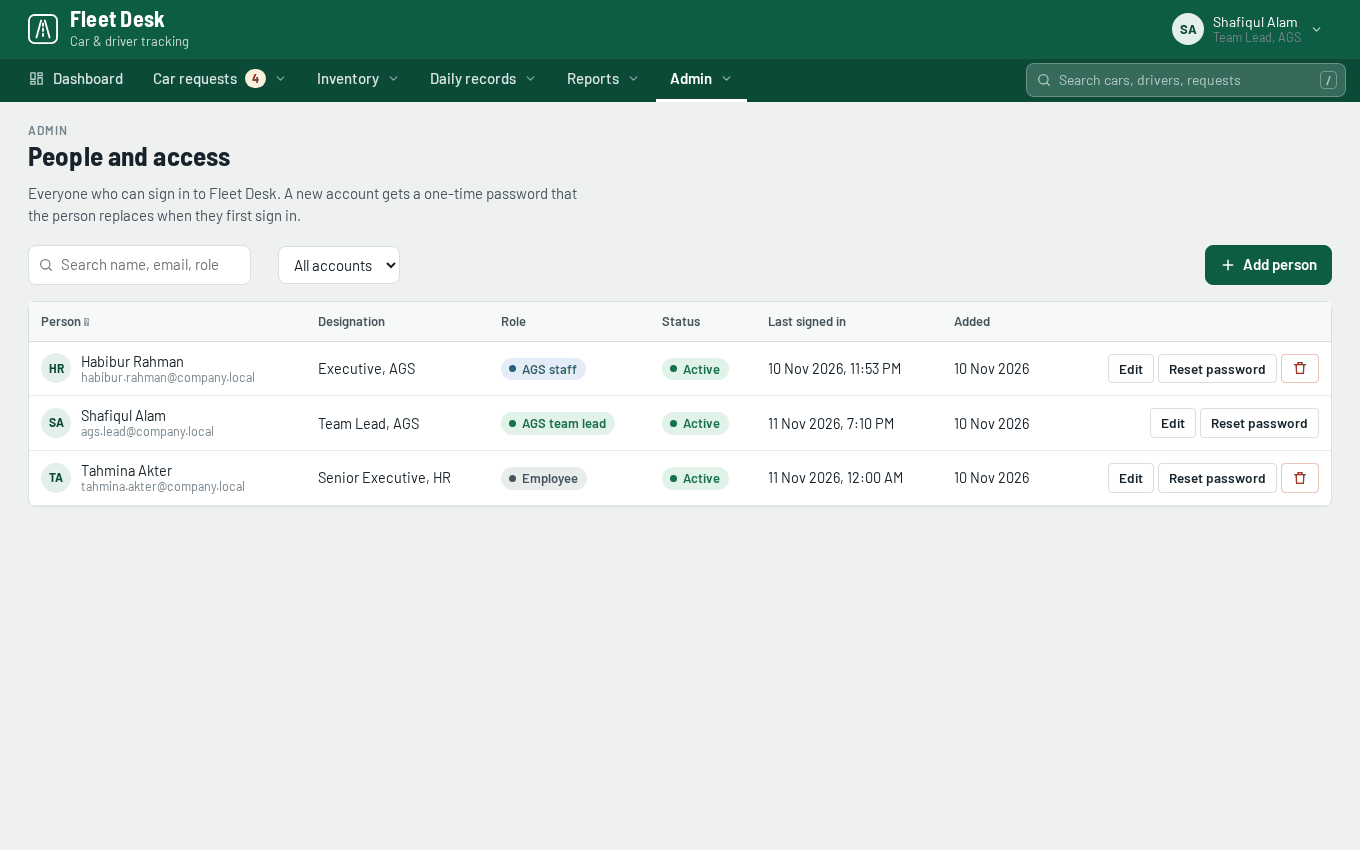
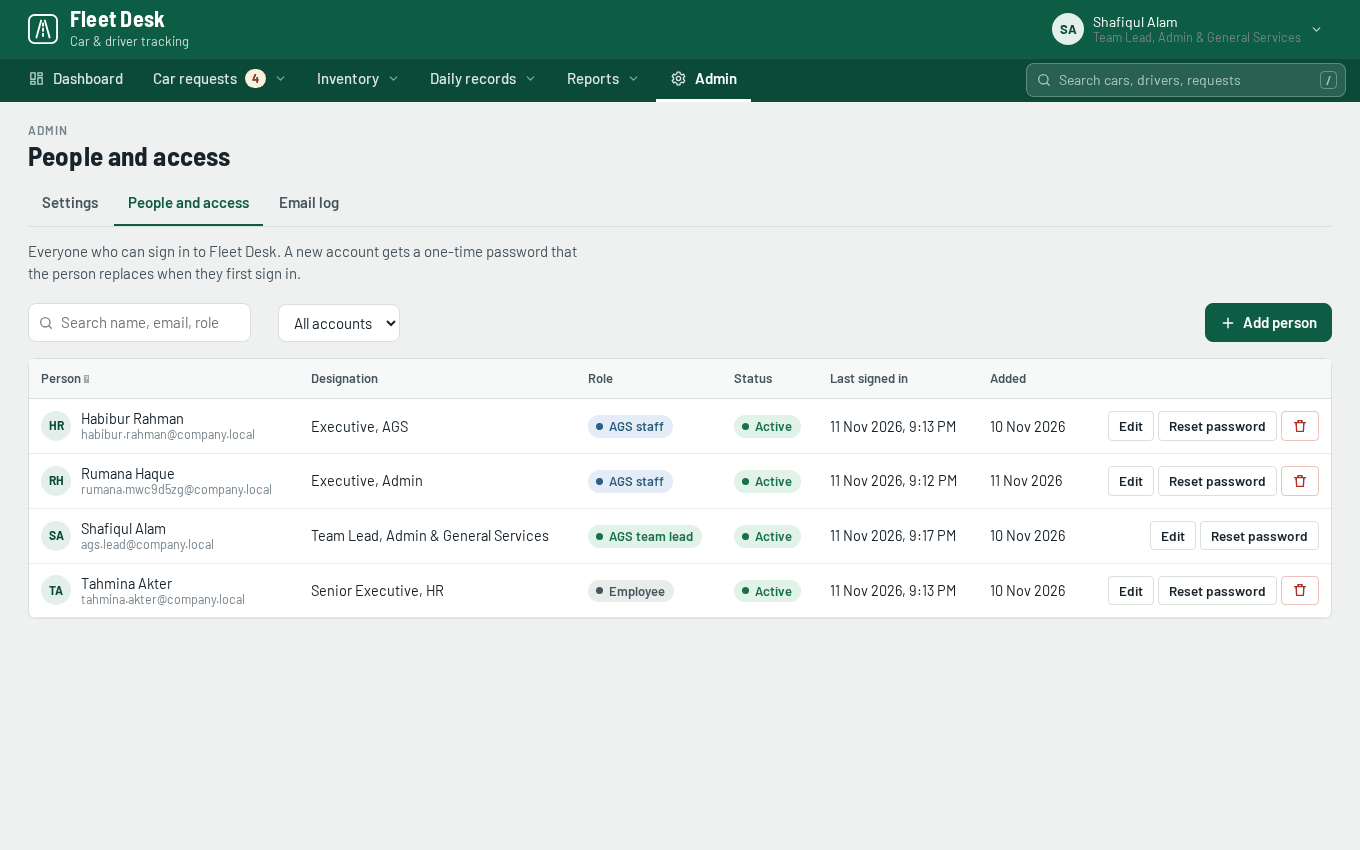
Admin: one page with tabs
Settings, People and access and the Email log were three entries in the Admin
menu; they are now three tabs on one Admin page.

Each tab keeps its own address — #admin/settings, #admin/users,
#admin/outbox — so links, the browser's back button and the search box all
land on the right tab, and the search box offers the tabs by name as well as
the page. The old #settings, #users and #outbox addresses redirect, so
nothing that was bookmarked or linked breaks.

Tabs follow the role: AGS staff see only the Email log, and with a single tab
the bar is left off entirely rather than showing one lonely tab.

diff --git a/assets/js/app.js b/assets/js/app.js
@@ -2,6 +2,7 @@
 import { api, CONFIG, loadAll } from './api.js';
 import { esc, initials, byId, fmtDate, fmtTime, num, num1, bdt, unitOf } from './utils.js';
 import { toast, confirmDialog, closeAllModals, pill } from './ui.js';
+import { tabsFor as adminTabs } from './views/admin.js';
 
 const P = (d) => `<svg viewBox="0 0 24 24" fill="none" stroke="currentColor" stroke-width="1.9" stroke-linecap="round" stroke-linejoin="round">${d}</svg>`;
 const I = {
@@ -41,9 +42,7 @@ export const ROUTES = [
   { path: 'consumption', title: 'Fuel consumption', group: 'Reports', roles: STAFF, load: () => import('./views/consumption.js') },
   { path: 'overtime', title: 'Driver overtime', group: 'Reports', roles: STAFF, load: () => import('./views/overtime.js') },
   { path: 'assignments', title: 'Assignment history', group: 'Reports', roles: STAFF, load: () => import('./views/assignments.js') },
-  { path: 'outbox', title: 'Email log', group: 'Admin', roles: STAFF, load: () => import('./views/outbox.js') },
-  { path: 'users', title: 'People and access', group: 'Admin', roles: ['lead'], load: () => import('./views/users.js'), icon: 'users', backend: true },
-  { path: 'settings', title: 'Settings', group: 'Admin', roles: ['lead'], load: () => import('./views/settings.js') },
+  { path: 'admin', title: 'Admin', group: 'Admin', roles: STAFF, load: () => import('./views/admin.js'), icon: 'settings', tabbed: true },
   // Reached from the user menu rather than the menu bar.
   { path: 'account', title: 'My account', group: 'Account', roles: ALL, load: () => import('./views/account.js'), icon: 'account', hidden: true, backend: true },
 ];
@@ -93,10 +92,11 @@ async function renderNav() {
 
   const badge = (n) => (n ? `<span class="nav-badge" aria-label="${n} waiting for review">${n}</span>` : '');
   const pageBadge = (r) => badge(r.badge ? pendingCount : 0);
-  const link = (r, cls) => `<a class="${cls}" href="#${r.path}"${r.path === current ? ' aria-current="page"' : ''}>${I[r.icon || r.path]}<span>${esc(r.title)}</span>${pageBadge(r)}</a>`;
+  const isCurrent = (r) => r.path === current || (r.tabbed && currentTop() === r.path);
+  const link = (r, cls) => `<a class="${cls}" href="#${r.path}"${isCurrent(r) ? ' aria-current="page"' : ''}>${I[r.icon || r.path]}<span>${esc(r.title)}</span>${pageBadge(r)}</a>`;
 
   document.getElementById('menuInner').innerHTML = Object.entries(groups).map(([group, items], i) => {
-    const here = items.some((r) => r.path === current) ? ' active' : '';
+    const here = items.some(isCurrent) ? ' active' : '';
     // A category with a single page needs no dropdown.
     if (items.length === 1) return `<div class="menu-item${here}">${link(items[0], 'menu-top is-link')}</div>`;
     const waiting = items.some((r) => r.badge) ? pendingCount : 0;
@@ -127,7 +127,7 @@ function renderUserMenu() {
       ${pill(ROLE_NAME[state.role] || state.role)}
     </div>
     ${signedIn ? `<a href="#account">${I.account}<span>My account</span></a>` : ''}
-    ${state.role === 'lead' && signedIn ? `<a href="#users">${I.users}<span>People and access</span></a>` : ''}
+    ${state.role === 'lead' && signedIn ? `<a href="#admin/users">${I.users}<span>People and access</span></a>` : ''}
     ${state.authMode === 'password' ? `<button type="button" id="signOut" class="danger">${I.signout}<span>Sign out</span></button>` : ''}
     ${state.authMode === 'proxy' ? '<p class="user-panel-note">Signed in with your company account.</p>' : ''}
     ${state.authMode === 'demo' ? '<p class="user-panel-note">Demo mode: pick a role with “Viewing as”. Sign-in needs the backend.</p>' : ''}`;
@@ -250,11 +250,19 @@ const PER_TYPE = 4, MAX_RESULTS = 14, SEARCH_TTL = 30_000;
 
 let searchCache = { role: null, at: 0, items: null };
 
-// The path is searchable too, so "mileage" finds "Running km".
-const pageItems = () => routesFor(state.role).map((r) => ({
-  type: 'Page', icon: r.icon || r.path, page: r.path, params: {},
-  title: r.title, sub: r.group, terms: [r.title, r.group, r.path],
-}));
+// The path is searchable too, so "mileage" finds "Running km". A tabbed page offers
+// its tabs as well, so "email log" still goes straight there.
+const pageItems = () => routesFor(state.role).flatMap((r) => {
+  const page = {
+    type: 'Page', icon: r.icon || r.path, page: r.path, params: {},
+    title: r.title, sub: r.group, terms: [r.title, r.group, r.path],
+  };
+  if (!r.tabbed) return [page];
+  return [page, ...adminTabs(state.role).map((t) => ({
+    type: 'Page', icon: t.path === 'users' ? 'users' : t.path, page: `${r.path}/${t.path}`, params: {},
+    title: t.title, sub: `${r.group} · ${r.title}`, terms: [t.title, t.path, r.group],
+  }))];
+});
 
 async function recordItems() {
   const usable = searchCache.items && searchCache.role === state.role && Date.now() - searchCache.at < SEARCH_TTL;
@@ -570,19 +578,28 @@ export function passwordChanged() {
 }
 
 const currentPath = () => (location.hash.replace(/^#\/?/, '').split('?')[0] || '');
+const currentTop = () => currentPath().split('/')[0];
+const currentSub = () => currentPath().split('/').slice(1).join('/');
+// Where the admin pages used to live, so old links and bookmarks still work.
+const LEGACY = { settings: 'admin/settings', users: 'admin/users', outbox: 'admin/outbox' };
 const routeQuery = () => new URLSearchParams(location.hash.split('?')[1] || '');
 
 let renderSeq = 0;
 async function route() {
   const seq = ++renderSeq;
   let path = currentPath();
+  if (LEGACY[path]) {
+    history.replaceState(null, '', `#${LEGACY[path]}`);
+    path = LEGACY[path];
+  }
   const allowed = routesFor(state.role);
   // A temporary password has to be replaced before anything else is reachable.
   if (state.mustChangePassword && path !== 'account') {
     history.replaceState(null, '', '#account');
     path = 'account';
   }
-  let r = allowed.find((x) => x.path === path);
+  const top = path.split('/')[0];
+  let r = allowed.find((x) => x.path === path) || allowed.find((x) => x.tabbed && x.path === top);
   if (!r) { r = allowed[0]; if (path !== r.path) { history.replaceState(null, '', '#' + r.path); path = r.path; } }
   document.getElementById('pageTitle').textContent = r.title;
   document.getElementById('pageCrumb').textContent = r.group;
@@ -604,7 +621,7 @@ async function route() {
     // just left writes into nothing instead of tripping over missing elements.
     const pane = document.createElement('div');
     view.replaceChildren(pane);
-    await mod.render(pane, ctx);
+    await mod.render(pane, ctx, path.split('/').slice(1).join('/'));
     applySearchTerm(pane);
     view.focus({ preventScroll: true });
     window.scrollTo(0, 0);

diff --git a/assets/js/views/admin.js b/assets/js/views/admin.js
@@ -1,0 +1,39 @@
+// Admin: settings, accounts and the email log, as tabs on one page.
+//
+// Each tab has its own address (#admin/users), so a link, the back button and the
+// search box all land where they should. Switching tabs is a normal navigation, so
+// a tab always draws from fresh data rather than whatever it held last time.
+import { CONFIG } from '../api.js';
+import { esc } from '../utils.js';
+
+export const TABS = [
+  { path: 'settings', title: 'Settings', roles: ['lead'], load: () => import('./settings.js') },
+  { path: 'users', title: 'People and access', roles: ['lead'], backend: true, load: () => import('./users.js') },
+  { path: 'outbox', title: 'Email log', roles: ['ags', 'lead'], load: () => import('./outbox.js') },
+];
+
+export const tabsFor = (role) => TABS.filter((t) => t.roles.includes(role) && !(t.backend && CONFIG.USE_MOCK));
+
+export async function render(el, ctx, subPath = '') {
+  const available = tabsFor(ctx.role);
+  if (!available.length) {
+    el.innerHTML = '<div class="callout warn">There is nothing here for your role.</div>';
+    return;
+  }
+  const tab = available.find((t) => t.path === subPath) || available[0];
+
+  // The page is "Admin"; the heading says which part of it you are looking at.
+  document.getElementById('pageTitle').textContent = tab.title;
+
+  el.innerHTML = `
+    ${available.length > 1 ? `<nav class="tabs" aria-label="Admin sections">
+      ${available.map((t) => `<a class="tab" href="#admin/${t.path}"${t.path === tab.path ? ' aria-current="page"' : ''}>${esc(t.title)}</a>`).join('')}
+    </nav>` : ''}
+    <div id="tabBody"></div>`;
+
+  const body = el.querySelector('#tabBody');
+  body.innerHTML = '<p class="muted">Loading…</p>';
+  const mod = await tab.load();
+  body.innerHTML = '';
+  await mod.render(body, ctx);
+}

diff --git a/assets/css/app.css b/assets/css/app.css
@@ -407,6 +407,15 @@ dl.facts dd { margin: 0; font-weight: 500; }
 .toast.bad { background: var(--danger); }
 @keyframes toast-in { from { transform: translateY(8px); opacity: 0; } }
 
+/* Page tabs: sections of one page, each with its own address. */
+.tabs { display: flex; gap: 2px; margin: -4px 0 18px; border-bottom: 1px solid var(--line); overflow-x: auto; }
+.tab {
+  padding: 9px 14px 10px; border-bottom: 3px solid transparent; margin-bottom: -1px;
+  color: var(--ink-2); text-decoration: none; font-weight: 600; white-space: nowrap;
+}
+.tab:hover { color: var(--ink); background: var(--line-soft); border-radius: var(--r-sm) var(--r-sm) 0 0; }
+.tab[aria-current="page"] { color: var(--sign); border-bottom-color: var(--sign); }
+
 /* Dashboard: which cars are out, free or off the road. */
 .fleet-now { gap: 16px 26px; }
 .fleet-head { display: flex; align-items: baseline; gap: 9px; padding-bottom: 8px; margin-bottom: 4px; border-bottom: 1px solid var(--line-soft); }

diff --git a/assets/js/views/overtime.js b/assets/js/views/overtime.js
@@ -23,7 +23,7 @@ export async function render(el, ctx) {
     <div class="callout" style="margin-bottom:16px">
       Shift ${fmtTime(s.shiftStart)} to ${fmtTime(s.shiftEnd)} on working days. Time before or after the shift counts once it passes ${s.graceMinutes} minutes, rounded down to ${s.roundingMinutes}-minute steps.
       All duty on ${s.weekendDays.map((x) => DAY_NAMES[x]).join(' and ')}${s.holidays?.length ? ' and listed holidays' : ''} is overtime at ${s.weekendMultiplier}× the driver's rate.
-      ${ctx.can('approve') ? '<a href="#settings">Change rules</a>' : ''}
+      ${ctx.can('approve') ? '<a href="#admin/settings">Change rules</a>' : ''}
     </div>
     <div class="kpis" id="kpis"></div>
     <section class="panel" id="tbl"></section>`;

diff --git a/README.md b/README.md
@@ -28,8 +28,12 @@ on an isolated network.
 | Fuel consumption | AGS | Fuel and cost per car per month, km/L, cost per km, and a flag when efficiency drops |
 | Driver overtime | AGS | Overtime per driver per month with a day-by-day breakdown |
 | Assignment history | AGS | Which driver took which car over any period — days driven and km from the logbook, trips booked through approved requests, and whether each pairing is the car's regular driver or cover |
-| Email log | AGS | Every email sent (to the team lead, confirmations, rejections) |
-| Settings | Team lead | Approval contacts, shift and overtime rules, weekend days, holidays, fuel prices |
+| Admin → Email log | AGS | Every email sent (to the team lead, confirmations, rejections, cancellations), why any of them failed, and a way to send it again |
+| Admin → Settings | Team lead | Approval contacts, shift and overtime rules, weekend days, holidays, fuel prices, mail server |
+| Admin → People and access | Team lead | Who can sign in, their role, and resetting a password |
+
+Admin is one page with those three as tabs; each tab has its own address, so
+`#admin/users` and the search box both land straight on it.
 
 Tables can be sorted and exported to CSV; reports can be printed.
 

diff --git a/API_CONTRACT.md b/API_CONTRACT.md
@@ -36,6 +36,8 @@ The role on the account decides what is allowed:
 
 `GET /api/v1/me` → `{ id, name, designation, email, role, mustChangePassword, authMode }` so the form can prefill and the nav can be built.
 
+The frontend groups settings, accounts and the email log into one Admin page with a tab each (`#admin/settings`, `#admin/users`, `#admin/outbox`). That is presentation only: the endpoints behind those tabs are unchanged.
+
 ### Sign-in and accounts
 
 | Method | Path | Who | Body | Effect |
